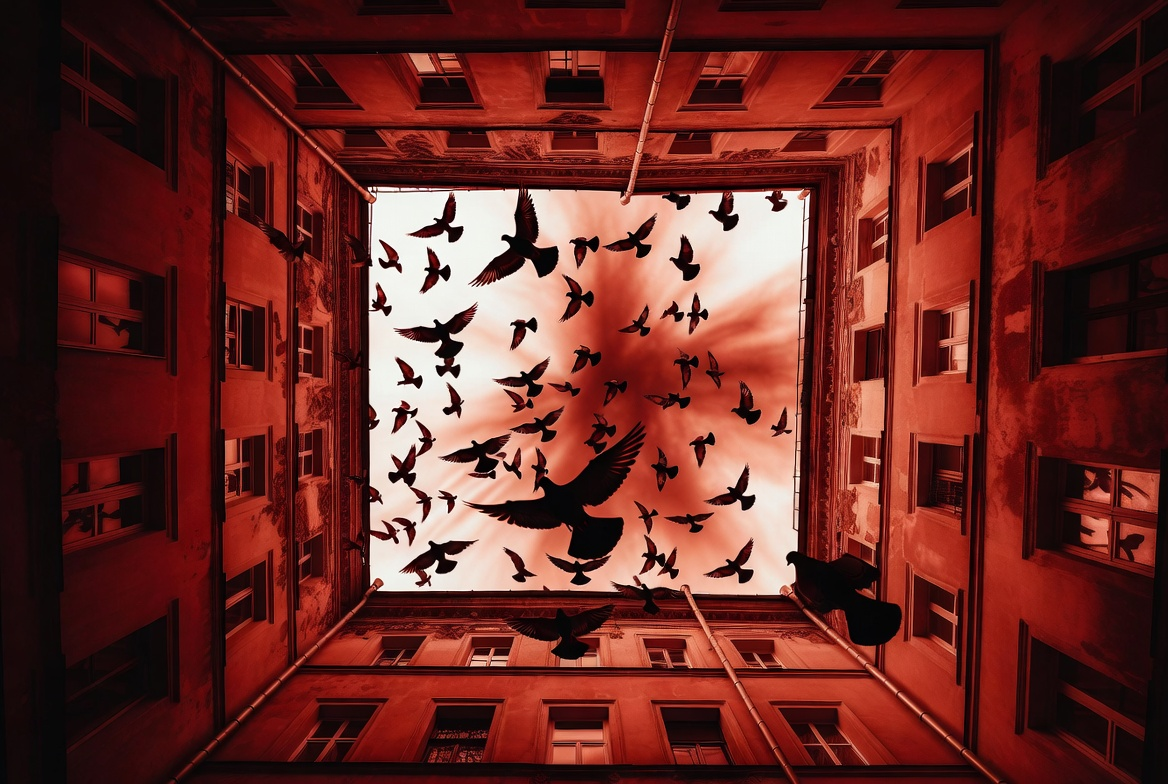
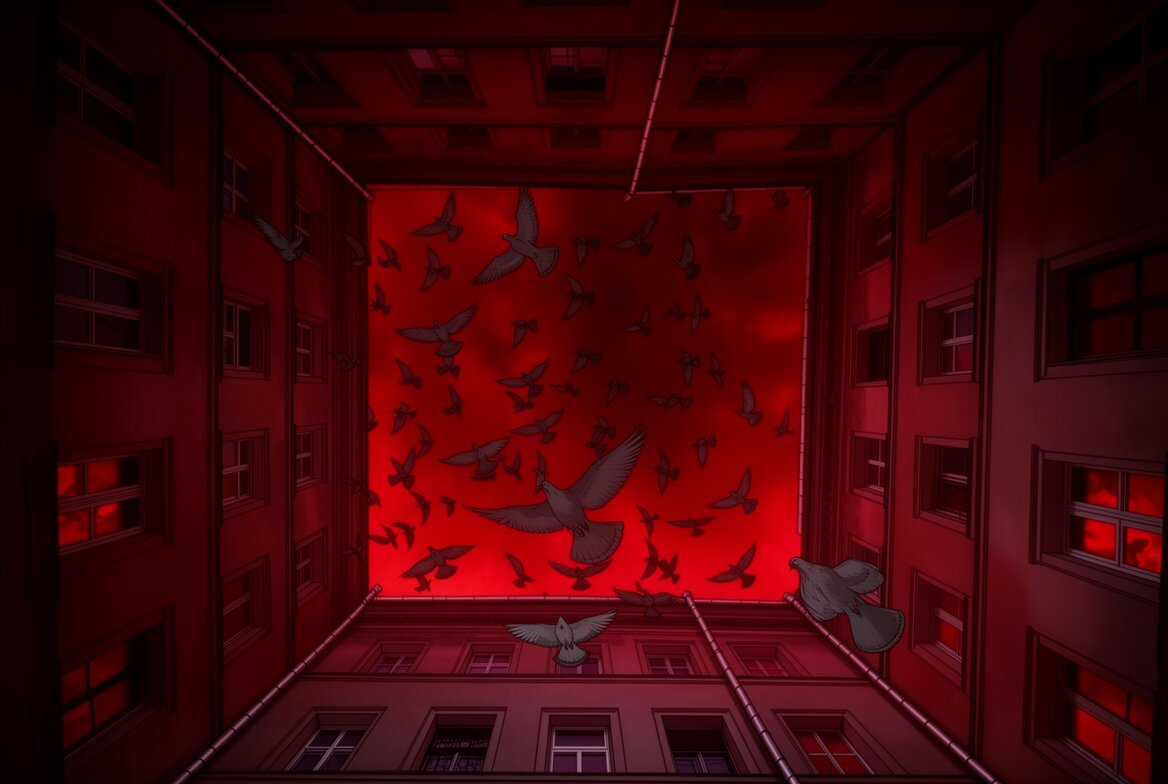
update: script and images

diff --git a/scripts/story.md b/scripts/story.md
@@ -1,16 +1,18 @@
 # start
 scene: intro2
 
-**Narrator**: (Звук шагов по мокрому булыжнику, вдалеке гудит трамвай)
 
-**Г**: (Вздыхает) Питер... Да, это город-призрак, город-воспоминание, город, где прошлое дышит тебе в затылок. Здесь все как будто пропитано историей, она сочится из каждого камня, каждой арки, каждого канала...
+(Звук шагов по мокрому булыжнику, вдалеке гудит трамвай)
+
+
+**Г (Г, #87CEEB)**: (Вздыхает) Питер... Да, это город-призрак, город-воспоминание, город, где прошлое дышит тебе в затылок. Здесь все как будто пропитано историей, она сочится из каждого камня, каждой арки, каждого канала...
 
 # intro
 scene: intro1
 
 **Г**: Это не Москва с ее напором и стремлением к будущему. Питер смотрит в прошлое, словно пытаясь понять, как мы дошли до жизни такой. Здесь каждый двор — это отдельная история, каждая парадная — будто декорация к историческому фильму.
 # yard
-scene: outside
+scene: yard
 
 (Г оглядывается вокруг, любуясь подворотней)
 
@@ -22,51 +24,49 @@ scene: outside
 
 (Замечает "Мусорного Стража")
 
-# trashman
-scene: trashman
-pose: pointing
+sprite: trashman-pointing center lg
 
-**МС**: (Хрипло) Так, так, так… Кто это к нам пожаловал? Я – Мусорный Страж, и я здесь всех знаю! Готовь бабки за проход! Хотя ладно, сегодня скидка для лохов.
+**Мусорный Страж (МС, #FF6B9D)**: (Хрипло) Так, так, так… Кто это к нам пожаловал? Я – Мусорный Страж, и я здесь всех знаю! Готовь бабки за проход! Хотя ладно, сегодня скидка для лохов.
 
 **Г**: Мусорный Страж… Оригинально. И что охраняешь? От чего?
 
-pose: glaring
+sprite: trashman-glaring center lg
 
 **МС**: Охраняю от твоей тупой морды! Чего приперся, а?
 
 **Г**: (Оглядывается) Ну да, тут есть что охранять… Куча мусора.
 
-pose: pointing
+sprite: trashman-pointing center lg
 
 **МС**: (раздраженно) Не стой столбом! Ты мне обзор на голубей закрываешь! 
 
 **Г**: Голубей? А что с ними?
 
-pose: wise
+sprite: trashman-wise center lg
 
 **МС**: Это сука элита двора! Лучшие бомбардировщики Питера!
 
 **Г**: Ммм... Они и на тебя бомбят?
 
-pose: thinking
+sprite: trashman-thinking center lg
 
 **МС**: (Вздыхает) Ну да… постоянно. Но это почётно! Значит, я достойный объект для атаки! Это как знак качества, понял?! Они всякий хлам не бомбят, им нужен достойный противник.
 
 **Г**: И ты не обижаешься?
 
-pose: pointing
+sprite: trashman-pointing center lg
 
 **МС**: Обижаться на голубей – это как обижаться на дождь в Питере! Бесполезно! Зато они создают атмосферу, добавляют колорита! А их помет - это удобрение для моих газетных слоев. В общем, взаимовыгодное сотрудничество!
 
 **Г**: (Улыбается) Логично. Значит, голуби – твои союзники?
 
-pose: pointing
+sprite: trashman-pointing center lg
 
 **МС**: Союзники, братья по оружию, элита двора! Они знают все секреты этого места, и если что - прилетят на помощь! Главное, не смотри им в глаза слишком долго, а то закидают насмерть.
 
 **Г**: Буду иметь в виду. Ты их как-то задабриваешь?
 
-pose: glaring
+sprite: trashman-pointing left-third lg
 
 **МС**: (Показывает рукой на кусок булки, лежащий у его "ног") Вот, угощаю их свежим хлебом! Они любят французский багэтик, эти голуби-снобы! И не вздумай украсть их долю, а то получишь по голове от моей глушильной руки!
 
@@ -74,12 +74,12 @@ pose: glaring
 [Угостить печенькой](#bribe_path)
 
 # steal_path
-scene: trashman
-pose: pointing
+scene: yard
+sprite: trashman-thinking center lg
 
 **Г**: (Быстро хватает кусок багета и откусывает) Вкуснятина! Спасибо за угощение, Страж.
 
-pose: wise
+sprite: trashman-wise center lg
 
 **МС**: (Хмыкает) Ах ты, ворюга! Ну ладно, голуби не сильно обижаются, они привыкли к наглости туристов… но этот багет был особенный! Французский, с трюфелями! Их любимый деликатес.
 
@@ -90,9 +90,15 @@ scene: pigeon_death
 
 **Г**: (Задыхаясь) Черт возьми! Что за нахрен?!
 
+sprite: trashman-wise right-third lg
+
 **МС**: (Спокойно наблюдая за происходящим) Ты посмел украсть их трюфельный багет! Теперь они отомстят за всю обиду, которую им причинили туристы. Голуби - существа мстительные, особенно когда дело касается еды.
 
+sprite:
+
 **Г**: (Задыхаясь) Трюфели… вот так облом! Лучше б я съел простой пирог с грибом!
+
+sprite: trashman-wise right-third lg
 
 **МС**: (Спокойно наблюдая за происходящим) 
 За жадность ту он поплатился впрок,
@@ -102,11 +108,12 @@ scene: pigeon_death
 
 # bribe_path
 scene: trashman
-pose: thinking
 
 **Г**: (Достает из кармана печенье "Юбилейное") Вот, держите! Голуби, угощайтесь! Может, им французский багет уже надоел?
 
 Голуби радостно слетаются к Герою и начинают клевать печеньку. Мусорный Страж удивленно наблюдает за этим.
+
+sprite: trashman-thinking left lg
 
 **МС**: Ого… "Юбилейное"! Эти голуби-снобы любят разнообразие! Молодец, парень, ты их подкупил! Они обычно нос воротят от всего не французского.
 
@@ -117,9 +124,90 @@ scene: pigeon_achievement
 
 **Г**: (Улыбается) Кажется, я им понравился. Он даже заурчал!
 
+sprite: trashman-wise left lg
+
 **МС**: Понравился! Теперь у тебя есть голубиная свита. Если заблудишься – просто свистни, они приведут к ближайшей шаверме или пивнушке. А если кто-то будет с тобой спорить - они его закидают! 
 
-[Получена ачивка **Голубиная Мафия**](#end_scene)
+[Получена ачивка **Голубиная Мафия**](#second_scene)
+
+# second_scene
+scene: yard
+sprite: trashman-glaring center lg
+
+**МС**: (Смотрит с уважением) Ладно, парень, ты не такой уж сиплый обормот, каким казался на первый взгляд. Проходи и спрашивай, если что по нашему двору надо узнать.
+
+**Г**: Слушай, я всегда мечтал попасть на крышу одного из этих старинных домов! Не знаешь, где мне найти проводника?
+
+sprite: trashman-thinking center lg
+
+**МС**: (Задумчиво) На крышу говоришь… Хмм… Тогда тебе нужно в дом номер 12 по Кузнечному переулку. Там живут два друга-деда – один архитектор-романтик, вечно витающих в облаках, а другой ворчливый инженер.
+
+sprite: trashman-pointing center lg
+
+**МС**: Или на угол Почтового и Соляного. Там крыши держит кошка-матриарх, если зачитаешь ей забористый гэнгста-рэп, уверен, она пропустит тебя наверх.
+
+[На Кузнечный переулок к дедам](#kuku)
+[На угол Почтового к кошке](#matriarch_cat)
+# kuku
+scene: kuku
+
+**(Г свистит, и стая голубей взлетает, указывая ему путь на Кузнечный переулок.)**
+
+(Герой подходит к стройке на Кузнечном переулке, привлеченный шумом и гамом.)
+
+sprite: prosphor-amused left-third lg
+
+**Просфор (П, #D0E37F)**: (С пафосом) Ах, Кукутучуевск… Там, где облака целуют макушки домов, оазис спокойствия и вдохновения, возвышающийся над суетой мира!
+
+sprite: el-annoyed right-third lg
+
+**Елисей (Э, #A148C4)**: (Бормочет себе под нос, скребя затылок) Оазис? Да тут скоро все к чертям рухнет, если не укрепить опоры! Красота – это хорошо, но еще лучше, когда тебя не прихлопывает первым же порывом ветра.
+
+sprite: prosphor-amused left-third lg
+sprite: el-annoyed right-third lg
+
+**Г**: Здорово, мужики! Что здесь за шум-гам?
+
+sprite: prosphor-excited left-third xl
+
+**П**: (Взлетает на седьмое небо от счастья) Мы строим Кукутучуевск! Город в небесах, куда можно сбежать от всех этих земных проблем и забот! Там будут фонтаны из звездной пыли и сады с поющими цветами!
+
+sprite: el-annoyed right-third lg
+
+**Э**: (Хмыкает) Строим… Скорее пытаемся построить. Этот романтик все время хочет добавить какие-то завитушки, чтоб глаз радовался, а нужно просто надежно закрепить доски, чтоб не развалилось!
+
+sprite: prosphor-indignated left-third lg
+
+**П**: (Надувшись) Завитушки?! Ну да, конечно, проще всего построить еще один унылый кубик. Кукутучуевск должен быть поэмой в камне!
+
+sprite: el-annoyed right-third lg
+
+**Э**: Красиво – это когда не развалится от первого порыва ветра! Смотри, вот здесь нужно добавить еще одну опору… А этот романтик все время хочет прицепить к крыше статую Купидона с луком и стрелами! Зачем нам тут любовь-морковь, когда надо чтоб дом стоял?!
+
+sprite:
+
+**Г**: (Оглядываясь, почесывая подбородок) Интересно… А что нужно сделать, чтобы помочь? Может, гвозди забить или доски принести?
+
+sprite: prosphor-amused left-third lg
+
+**П**: Помоги нам выбрать лучший материал для крыши! Я предлагаю использовать старые зонтики – они легкие, красивые и создают атмосферу уюта! Представь, как мило будет выглядеть дождь, барабанящий по зонтичной крыше!
+
+sprite: el-annoyed right-third lg
+
+**Э**: (Закатывает глаза) Зонтики?! Они от дождя спасают, а не крышу держат! Лучше взять доски покрепче, чтоб выдержали и снег, и ветер, и даже слона, если он решит прогуляться по нашей крыше!
+
+
+# matriarch_cat
+scene: pigeon_achievement
+
+**(Г свистит, и стая голубей взлетает, указывая ему угол Почтового и Соляного переулков.)**
+
+На сцене появляется кошка-матриарх.
+
+**Кошка-матриарх (КМ, #594157)**: (Читает рэп) Ночь на дворе, и я не знаю куда
+**КМ**: Дорогая миска и дорогая вода
+**КМ**: Мягкие лапки, мягкие слова
+**КМ**: Вижу свой корм, я такая, о да
 # end_scene
 scene: intro1
 **Narrator**: Thank you for spending time with us!
